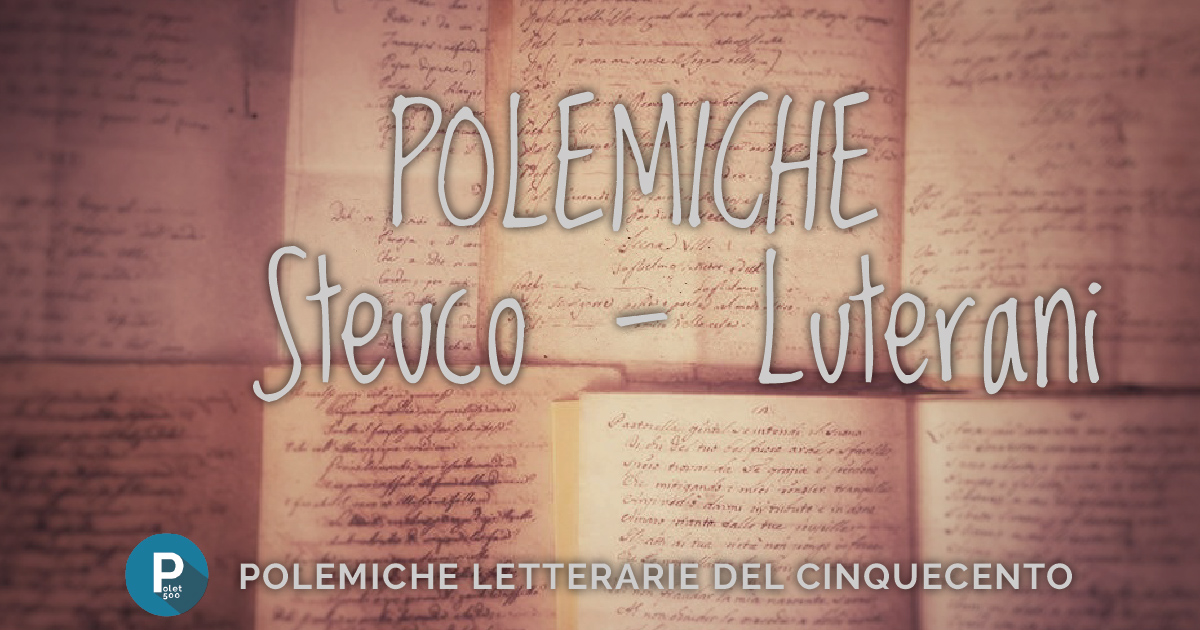
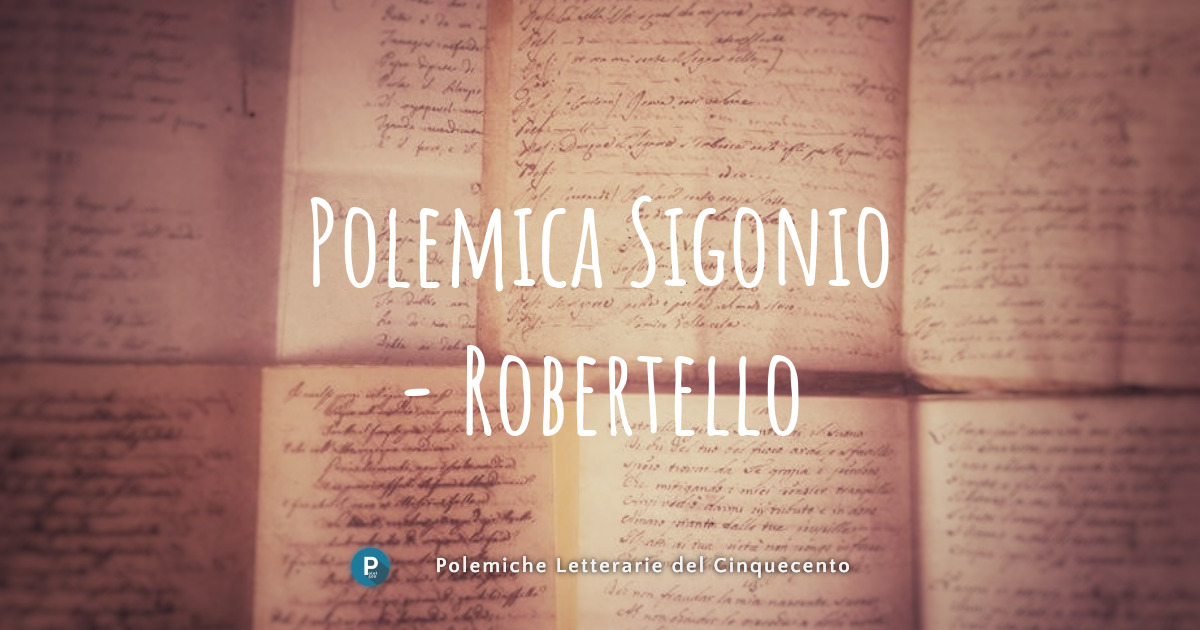
update

diff --git a/vergerio-dellacasa/item.md b/vergerio-dellacasa/item.md
@@ -1,9 +1,9 @@
 ---
-title: Catalogo de’ libri, li quali nuovamente nel mese di Maggio nell'anno presente MDXLVIIII sono stati condannati, et scomunicati per heretici, da M. Giovan Della Casa legato di Vinetia, et d'alcuni frati. 
+title: Polemica tra Pier Paolo Vergerio il Giovane e Giovanni Della Casa
 metadata:
-	description: Il Vergerio si presenta dunque «alli lettori Christiani» usando la metafora evangelica del contadino, il quale "condotto a lavorare in qualche campo o vigna" si accorge della presenza di "ribaldi, li quali facciano consegli et trattati di voler assalire le persone, spogliarle et ammazzarle". Egli sostiene che questo contadino è "obligato di intermetter il lavoro, et lasciando ogni cosa correre là dove sono i viandanti, alzar la voce et scorprir le loro insidie". La premura con la quale il Vergerio interpreta questa missione si fa ancora più urgente quando, all’indomani della pubblicazione del "Catalogo del Della Casa", egli vede messa a repentaglio ogni possibilità di conciliazione con i teologi luterani e, ancor peggio, il rischio di una rottura definitiva che avrebbe portato allo scisma con Roma. Un aspetto forse poco sottolineato del pensiero del presule di Capodistria era quello della concordia ecclesiale: il Vergerio aveva maturato le sue idee sulla pace religiosa durante la sua permanenza alla corte di Francia al seguito del cardinale Ippolito II d’Este, pubblicando il trattato "De unitate et pace ecclesiae". Tuttavia, le concessioni teologiche che in nome dell’unità ecclesiale venivano in esso fatte ai riformati gli valsero durante la dieta di Ratisbona (1541) i richiami persino del più conciliante Gasparo Contarini. E così dunque, con pungente vis retorica, che non nasconde il risentimento personale verso il Della Casa, si oppone audacemente al documento di messa all’indice: "O popoli d'Italia, o popoli di Alamagna, di Franza, di Spagna, et di tutta la Christiana Republica, li quali con tanto ardore aspettavate che si hauesse a far un Concilio, et determinar le controversie, ecco che M. Giovanni Della Casa lo ha in un tratto comminciato, et finito, et ha fatta la determinatione di ogni cosa. Sarà mò vostro offitio di acquetarvi et humiliarvi a quello che è parso di fare a questo savio censore. Et voi Cardinali, Vescovi, Abbati, Theologi di tutta la christianità, li quali harresti havute tante fatiche, tante spese, et tante ansietà se vi fosse stato bisogno di venir a sedere in un Concilio et disputar, iudicar, diffinir queste materie ringratiate costui, che vi ha sgravati di un così grave pensiero et fastidio. In somma, a me pare che con suo honore egli poteva ben lasciar stare questa soperbissima impresa, et se pure per fare l'offitio di buon Fariseo, et persecutore della verità, esso voleva ricordare et consegliare che nella città et nel dominio di Vinetia non si havessero a vender alcuni libri pii poteva tener altra via che questa, che esso ha tenuto per mera vanagloria, publicando in stampa per tutto il mondo di haver fatto quello bel tratto, et haver condannato ogni cosa in un fascio fino que libricini, li quali non toccano altro che abusi palpabili". Colta l’occasione per difendere gli autori e le opere contenute nel "Catalogo" veneziano, il Vergerio riesce nel suo intento di redigere un’apologia della riforma italiana – nei termini di un martirio costante in nome della verità cristiana – e nello stesso tempo di portare il confronto su di un terreno più personale, quello del rapporto conflittuale con il nunzio Della Casa.
-	og:image: TBD
-	image: TBD
+	description: "Catalogo de’ libri, li quali nuovamente nel mese di Maggio nell'anno presente MDXLVIIII sono stati condannati, et scomunicati per heretici, da M. Giovan Della Casa legato di Vinetia, et d'alcuni frati."
+	og:image: http://158.194.42.140/schede/vergerio-dellacasa/banner-fb.jpg
+	image: http://158.194.42.140/schede/vergerio-dellacasa/banner-fb.jpg
 date: 03-05-2019
 taxonomy:
 	tag: [Controversia, apologia]
@@ -59,6 +59,9 @@ taxonomy:
 	    Link: 
 
 ---
+
+
+Il Vergerio si presenta dunque «alli lettori Christiani» usando la metafora evangelica del contadino, il quale "condotto a lavorare in qualche campo o vigna" si accorge della presenza di "ribaldi, li quali facciano consegli et trattati di voler assalire le persone, spogliarle et ammazzarle". Egli sostiene che questo contadino è "obligato di intermetter il lavoro, et lasciando ogni cosa correre là dove sono i viandanti, alzar la voce et scorprir le loro insidie". La premura con la quale il Vergerio interpreta questa missione si fa ancora più urgente quando, all’indomani della pubblicazione del "Catalogo del Della Casa", egli vede messa a repentaglio ogni possibilità di conciliazione con i teologi luterani e, ancor peggio, il rischio di una rottura definitiva che avrebbe portato allo scisma con Roma. Un aspetto forse poco sottolineato del pensiero del presule di Capodistria era quello della concordia ecclesiale: il Vergerio aveva maturato le sue idee sulla pace religiosa durante la sua permanenza alla corte di Francia al seguito del cardinale Ippolito II d’Este, pubblicando il trattato "De unitate et pace ecclesiae". Tuttavia, le concessioni teologiche che in nome dell’unità ecclesiale venivano in esso fatte ai riformati gli valsero durante la dieta di Ratisbona (1541) i richiami persino del più conciliante Gasparo Contarini. E così dunque, con pungente vis retorica, che non nasconde il risentimento personale verso il Della Casa, si oppone audacemente al documento di messa all’indice: "O popoli d'Italia, o popoli di Alamagna, di Franza, di Spagna, et di tutta la Christiana Republica, li quali con tanto ardore aspettavate che si hauesse a far un Concilio, et determinar le controversie, ecco che M. Giovanni Della Casa lo ha in un tratto comminciato, et finito, et ha fatta la determinatione di ogni cosa. Sarà mò vostro offitio di acquetarvi et humiliarvi a quello che è parso di fare a questo savio censore. Et voi Cardinali, Vescovi, Abbati, Theologi di tutta la christianità, li quali harresti havute tante fatiche, tante spese, et tante ansietà se vi fosse stato bisogno di venir a sedere in un Concilio et disputar, iudicar, diffinir queste materie ringratiate costui, che vi ha sgravati di un così grave pensiero et fastidio. In somma, a me pare che con suo honore egli poteva ben lasciar stare questa soperbissima impresa, et se pure per fare l'offitio di buon Fariseo, et persecutore della verità, esso voleva ricordare et consegliare che nella città et nel dominio di Vinetia non si havessero a vender alcuni libri pii poteva tener altra via che questa, che esso ha tenuto per mera vanagloria, publicando in stampa per tutto il mondo di haver fatto quello bel tratto, et haver condannato ogni cosa in un fascio fino que libricini, li quali non toccano altro che abusi palpabili". Colta l’occasione per difendere gli autori e le opere contenute nel "Catalogo" veneziano, il Vergerio riesce nel suo intento di redigere un’apologia della riforma italiana – nei termini di un martirio costante in nome della verità cristiana – e nello stesso tempo di portare il confronto su di un terreno più personale, quello del rapporto conflittuale con il nunzio Della Casa.
 
 L’avversario più duro per il Vergerio, negli anni decisivi per l’abbandono delle posizioni più moderate e la rottura con Roma, fu il vescovo di Benevento Giovanni Della Casa, fresco di nomina pontificia come nunzio apostolico a Venezia nel 1544. Il Della Casa, quale membro di diritto del tribunale inquisitoriale, avrebbe steso nel maggio del 1549 un “Catalogo di diverse opere, compositioni et libri, li quali come eretici, sospetti, impii et scandalosi si dichiarano dannati et prohibiti in questa inclita città di Vinegia”, ponendo le basi per l’esautorazione – di concerto con il Consiglio dei Dieci – degli Esecutori alla Bestemmia da tale compito. 
 Malgrado venisse condannato per eresia in contumacia in un secondo processo (3 luglio1549) e privato della dignità episcopale, Pier Paolo Vergerio non perse l’occasione di scagliarsi contro il “Catalogo” del Dalla Casa dalla sua nuova residenza a Poschiavo, nei Grigioni. Egli diede alle stampe, lo stesso giorno, un pamphlet in volgare, Il “Catalogo de’ libri, li quali nuovamente nel mese di Maggio nell'anno presente MDXLVIIII sono stati condannati, et scomunicati per heretici, da M. Giovan Della Casa legato di Vinetia, et d'alcuni frati. È aggiunto sopra il medesimo catologo un iudicio, et discorso del Vergerio”. Impresso nel frontespizio, in esergo, oltre ad una citazione dal quarto evangelo, si trova un versetto tratto dal libro dei Salmi: “Qui habitat in Coelis irridebit eos”. Già Lutero, nella sua edizione delle “Operationes in Psalmos” (1519-1521) annotò a proposito di questo versetto che “adversarios nostros non modo humiliandos, sed etiam ridendos esse”: l’esegesi biblica si prestava ad una lettura non solo in chiave spirituale ma soprattutto polemica contro gli avversari di Cristo, identificabili allora con la gerarchia curiale romana.

diff --git a/sigonio-robortello/item.md b/sigonio-robortello/item.md
@@ -1,9 +1,9 @@
 ---
 title: Polemica fra Carlo Sigonio e Francesco Robortello
-metadata:
-	description: 
-	og:image: TBD
-	image: TBD
+metadata: 
+	description: "L’acre polemica che vide come protagonisti Carlo Sigonio e Francesco Robortello ci è stata tramandata mediante tre opere pubblicate fra l’aprile e il settembre del 1562 all’interno dell’ambiente universitario padovano: le Disputationes Patavinae (I e II) del primo e le Ephemerides Patavinae del celebre commentatore della Poetica aristotelica. "
+	og:image: http://158.194.42.140/schede/sigonio-robortello/banner-fb.jpg
+	image: http://158.194.42.140/schede/sigonio-robertello/banner-fb.jpg
 date: 03-05-2019
 taxonomy:
 	tag: [Storiografia romana, Livio, prestigio universitario]
